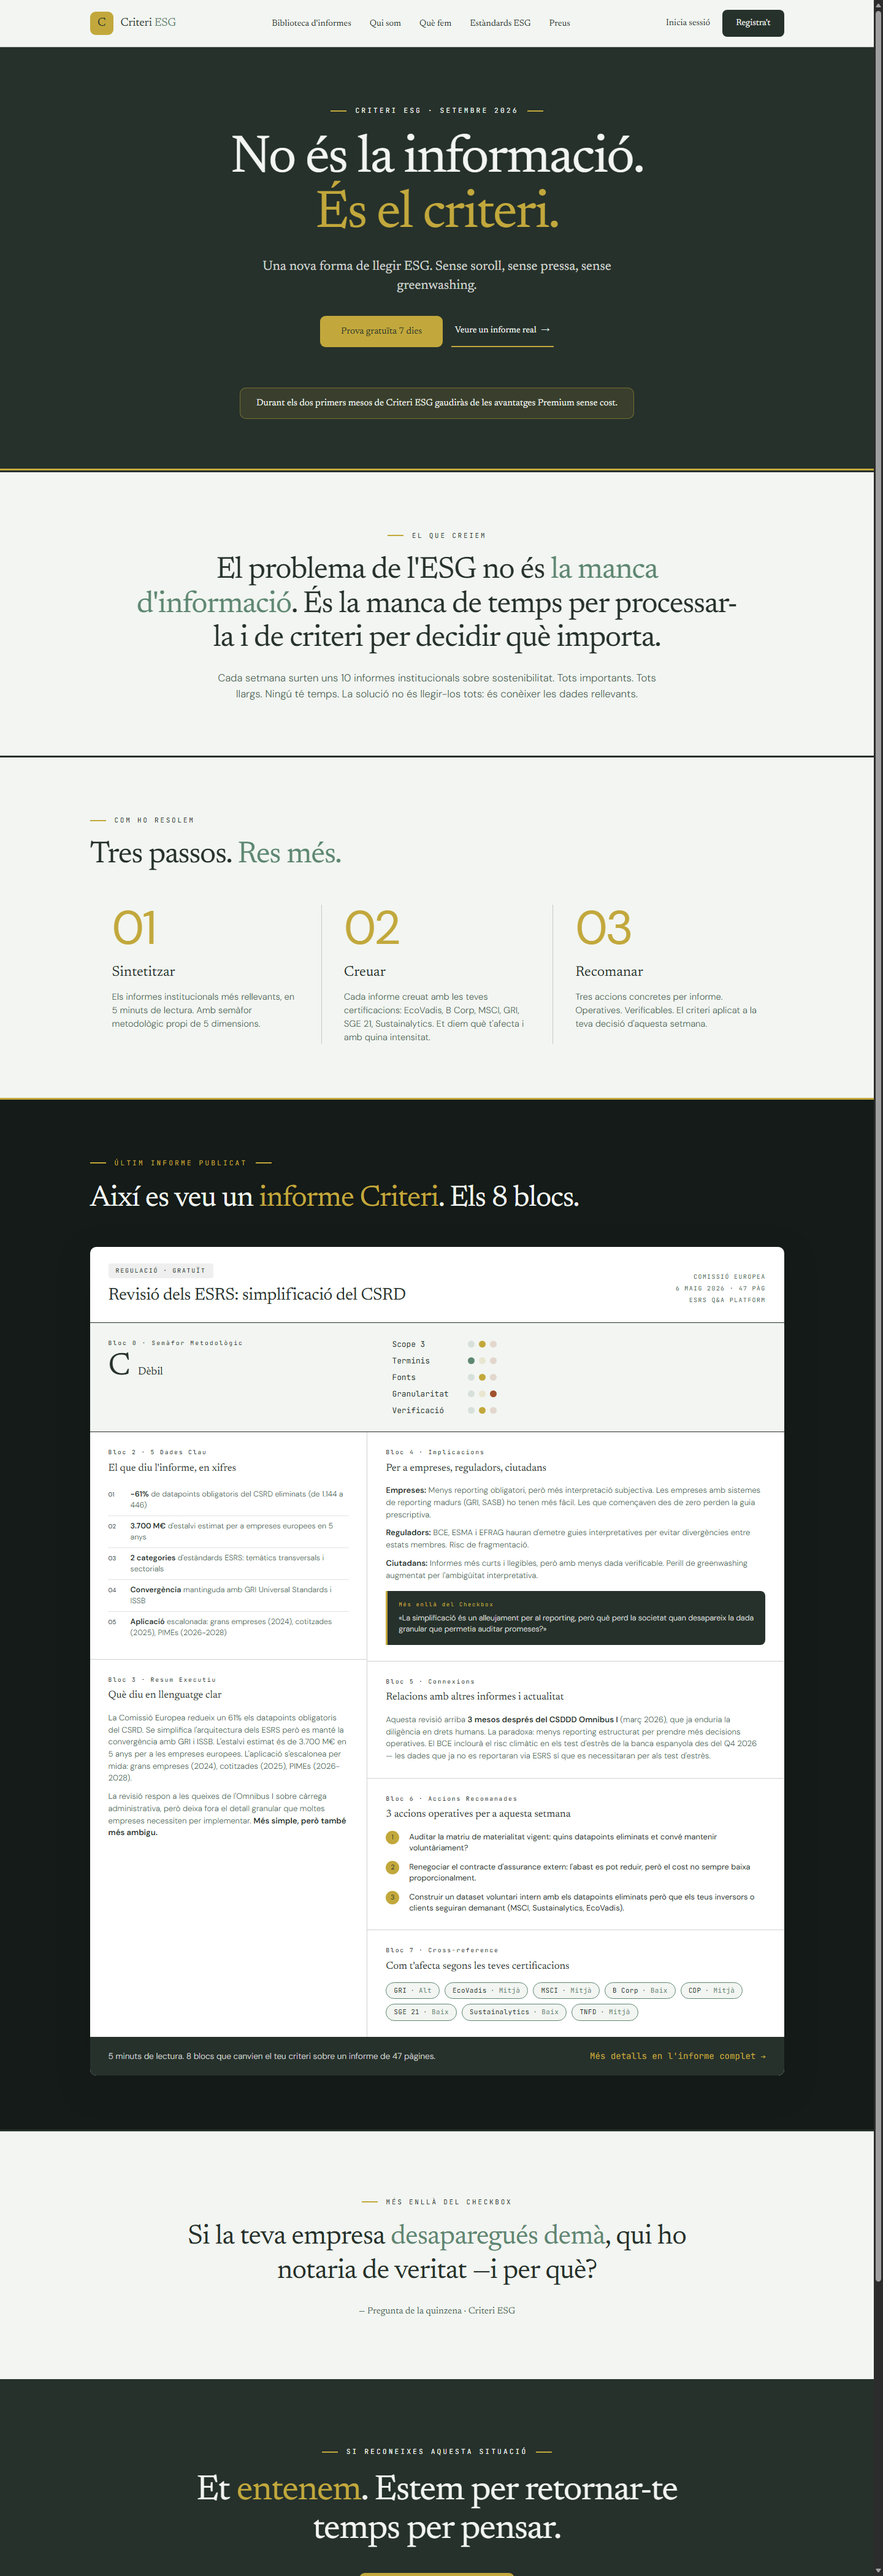
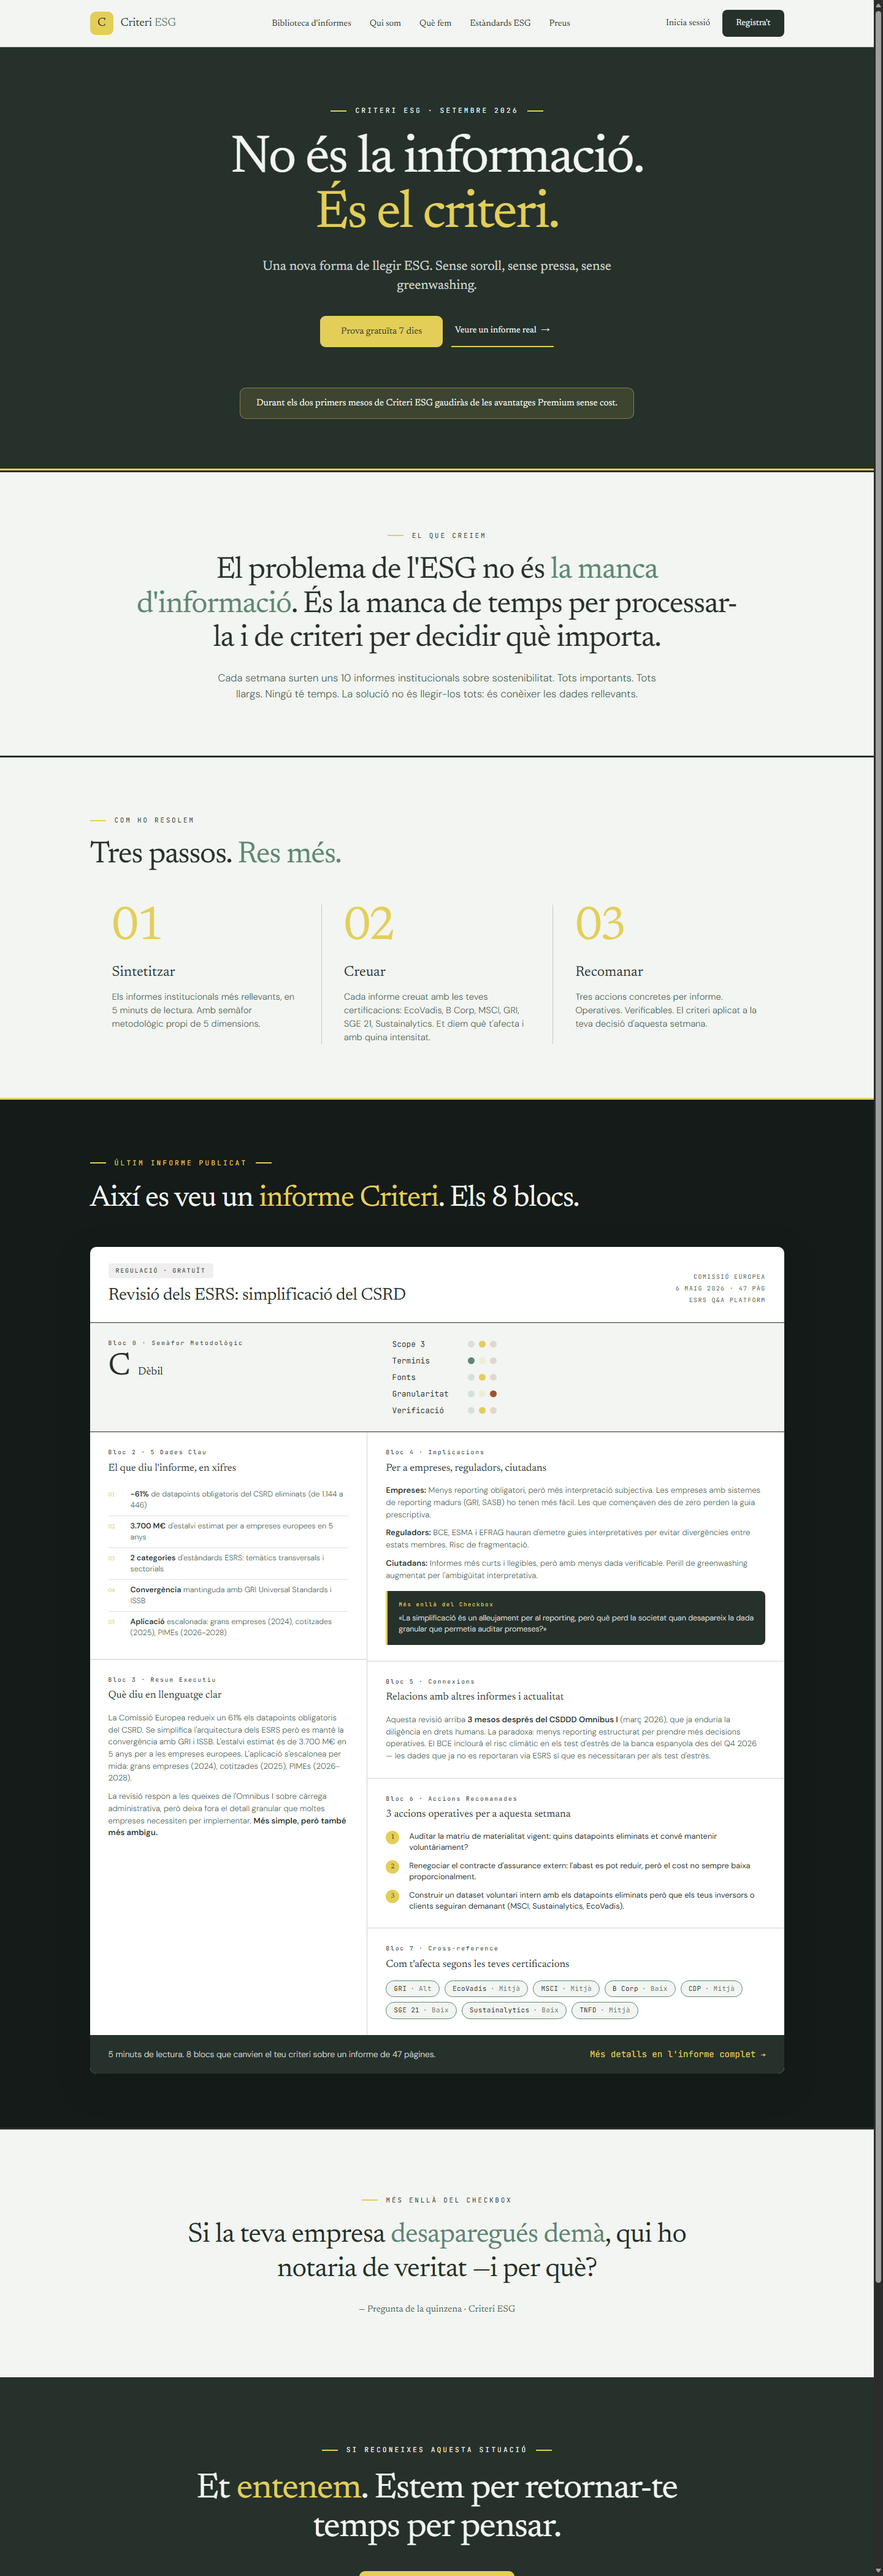
style: salvia v3 - groc clar E3CE58 (menys mostassa) aplicat tambe als numeros

diff --git a/assets/redisseny-web/mockup-homepage-paleta-salvia.html b/assets/redisseny-web/mockup-homepage-paleta-salvia.html
@@ -12,7 +12,7 @@
   :root {
     --ink: #26312B;          /* text principal */
     --accent: #5E8772;       /* accent mig */
-    --highlight: #C2A83C;    /* highlights + logo (mostassa suau) */
+    --highlight: #E3CE58;    /* highlights + logo (groc clar càlid) */
     --bg: #F2F5F1;           /* fons */
     --bg-paper: #FFFFFF;
     --ink-soft: #4A5F53;     /* derivat: text secundari */
@@ -45,9 +45,12 @@
     font-family: var(--font-display);
   }
 
-  /* Números amb la tipografia del cos (DM Sans) */
+  /* Números amb la tipografia serif (Newsreader) i coure càlid, com la referència */
   .thesis .num, .dada .n, .accio .cnum {
-    font-family: var(--font-body);
+    font-family: var(--font-display);
+  }
+  .thesis .num, .dada .n {
+    color: var(--highlight);
   }
 
   /* Tipografia tècnica (JetBrains Mono): labels, eyebrows, meta, chips */
@@ -136,8 +139,8 @@
   .hero .btn-line { background: transparent; color: var(--bg); padding: 14px 6px; border-bottom: 2px solid var(--highlight); border-radius: 0; font-weight: 400; }
   .banner {
     margin-top: 40px; padding: 14px 26px;
-    background: rgba(194, 168, 60, 0.12);
-    border: 1px solid rgba(194, 168, 60, 0.45);
+    background: rgba(227, 206, 88, 0.12);
+    border: 1px solid rgba(227, 206, 88, 0.45);
     border-radius: var(--radius);
     font-size: 0.95rem; font-weight: 400; color: var(--bg);
   }
@@ -244,7 +247,7 @@
   .dades { display: flex; flex-direction: column; }
   .dada { display: grid; grid-template-columns: 26px 1fr; gap: 10px; padding: 8px 0; border-bottom: 1px dotted rgba(74, 95, 83, 0.35); align-items: baseline; }
   .dada:last-child { border-bottom: none; }
-  .dada .n { font-size: 0.62rem; font-weight: 400; color: var(--ink); }
+  .dada .n { font-size: 0.62rem; font-weight: 400; color: var(--highlight); }
   .dada .t { font-size: 0.78rem; font-weight: 300; color: var(--ink-soft); }
   .dada .t strong { color: var(--ink); font-weight: 600; }
 
